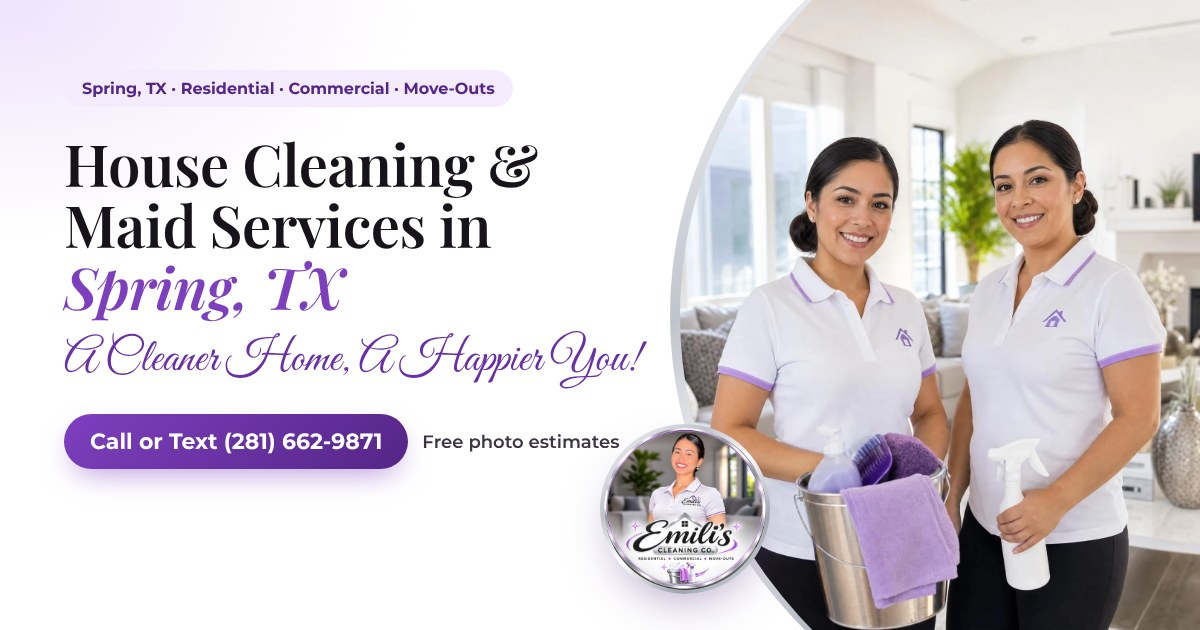
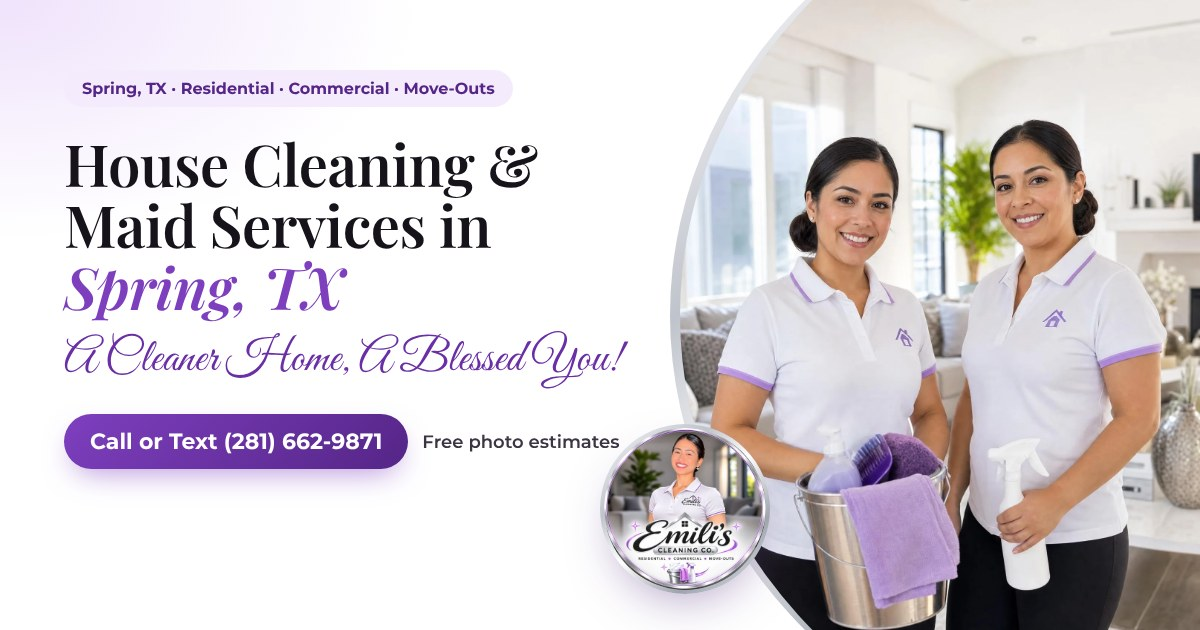
Change slogan to "A Cleaner Home, A Blessed You!"
- English and Spanish slogan (site copy, About heading, emails, sample
  reviews, README) — Spanish: "¡Un hogar más limpio, una vida bendecida!"
- Regenerated English and Spanish social-share images

Claude-Session: https://claude.ai/code/session_01XFkHENHBr2LGocAzThXZ9W

Changed region(s): [[0.3083, 0.5127, 0.5242, 0.6333]]

diff --git a/src/components/GoogleReviews.tsx b/src/components/GoogleReviews.tsx
@@ -27,7 +27,7 @@ const PREVIEW_REVIEWS: Review[] = [
   { id: "p3", name: "Ana L.", location: "Klein, TX", rating: 5, source: "Google", date: "", published: true, createdAt: "", service: "Biweekly Cleaning", text: "We've been using Emili's every other week and I honestly don't know how we lived without them. The team is friendly, careful with our things and great with our dogs." },
   { id: "p4", name: "Brittany W.", location: "Tomball, TX", rating: 5, source: "Google", date: "", published: true, createdAt: "", service: "House Cleaning", text: "Love that the hourly price covers the whole crew — no surprises. Three cleaners had our 4-bedroom done in a few hours. Kitchen and bathrooms were spotless!" },
   { id: "p5", name: "David P.", location: "Cypress, TX", rating: 5, source: "Google", date: "", published: true, createdAt: "", service: "Office Cleaning", text: "They clean our small office after hours and do a fantastic job. Communication by text is quick and easy. Highly recommend for any business." },
-  { id: "p6", name: "Sofia M.", location: "Kingwood, TX", rating: 5, source: "Google", date: "", published: true, createdAt: "", service: "Apartment Cleaning", text: "Sent photos of my apartment and got a quick estimate. The crew was sweet, detail-oriented and left everything smelling fresh. A cleaner home, a happier me!" },
+  { id: "p6", name: "Sofia M.", location: "Kingwood, TX", rating: 5, source: "Google", date: "", published: true, createdAt: "", service: "Apartment Cleaning", text: "Sent photos of my apartment and got a quick estimate. The crew was sweet, detail-oriented and left everything smelling fresh. A cleaner home, a blessed me!" },
 ];
 const PREVIEW_ES: Record<string, { text: string; service: string }> = {
   p1: {
@@ -52,7 +52,7 @@ const PREVIEW_ES: Record<string, { text: string; service: string }> = {
   },
   p6: {
     service: "Limpieza de apartamentos",
-    text: "Envié fotos de mi apartamento y recibí un estimado rápido. El equipo fue amable, detallista y dejó todo con olor fresco. ¡Un hogar más limpio, una vida más feliz!",
+    text: "Envié fotos de mi apartamento y recibí un estimado rápido. El equipo fue amable, detallista y dejó todo con olor fresco. ¡Un hogar más limpio, una vida bendecida!",
   },
 };
 const PREVIEW_WHEN: Record<"en" | "es", string[]> = {

diff --git a/src/lib/site.ts b/src/lib/site.ts
@@ -15,7 +15,7 @@ export const SITE = {
   name: "Emili's Cleaning Co.",
   legalName: "Emili's Cleaning Co.",
   shortName: "Emili's Cleaning",
-  slogan: "A Cleaner Home, A Happier You!",
+  slogan: "A Cleaner Home, A Blessed You!",
   headline: "Professional House Cleaning & Maid Services in Spring, TX",
   description:
     "Emili's Cleaning Co. provides professional residential, apartment, commercial, deep cleaning, and move-out cleaning services throughout Spring and surrounding communities.",
@@ -58,7 +58,7 @@ export const COPY = {
     goal: SITE.goal,
   },
   es: {
-    slogan: "¡Un hogar más limpio, una vida más feliz!",
+    slogan: "¡Un hogar más limpio, una vida bendecida!",
     headline: "Limpieza profesional de casas y servicio de limpieza doméstica en Spring, TX",
     description:
       "Emili's Cleaning Co. ofrece servicios profesionales de limpieza residencial, de apartamentos, comercial, limpieza profunda y limpieza de mudanza en Spring y las comunidades cercanas.",

diff --git a/src/lib/notify.ts b/src/lib/notify.ts
@@ -1,6 +1,6 @@
 import "server-only";
 import nodemailer, { type Transporter } from "nodemailer";
-import { SITE } from "./site";
+import { COPY, SITE } from "./site";
 
 export type MailAttachment = { filename: string; content: Buffer; contentType: string };
 
@@ -112,7 +112,7 @@ export function emailLayout(title: string, intro: string, rows: [string, string]
 <tr><td style="background:linear-gradient(135deg,#6a2fa6,#9a5cd3);padding:22px 24px;color:#fff;font:700 20px Georgia,serif">${escapeHtml(
     SITE.name,
   )}<div style="font:400 13px Arial,sans-serif;opacity:.9;margin-top:4px">${escapeHtml(
-    lang === "es" ? "¡Un hogar más limpio, una vida más feliz!" : SITE.slogan,
+    COPY[lang].slogan,
   )}</div></td></tr>
 <tr><td style="padding:22px 24px 8px;font:700 18px Arial,sans-serif;color:#16131a">${escapeHtml(title)}</td></tr>
 <tr><td style="padding:0 24px 16px;font:15px/1.5 Arial,sans-serif;color:#4a4552">${intro}</td></tr>

diff --git a/src/app/[lang]/about/page.tsx b/src/app/[lang]/about/page.tsx
@@ -66,10 +66,10 @@ export default async function AboutPage() {
         eyebrow={t("Our Story", "Nuestra historia")}
         title={t(
           <>
-            A cleaner home, <span className="text-gradient italic">a happier you</span>
+            A cleaner home, <span className="text-gradient italic">a blessed you</span>
           </>,
           <>
-            Un hogar más limpio, <span className="text-gradient italic">una vida más feliz</span>
+            Un hogar más limpio, <span className="text-gradient italic">una vida bendecida</span>
           </>,
         )}
         lead={t(

diff --git a/README.md b/README.md
@@ -1,6 +1,6 @@
 # Emili's Cleaning Co. — Website
 
-**A Cleaner Home, A Happier You!**
+**A Cleaner Home, A Blessed You!**
 
 Premium, mobile-first website for Emili's Cleaning Co. (Spring, TX), built with Next.js 16, React 19 and Tailwind CSS 4.
 
